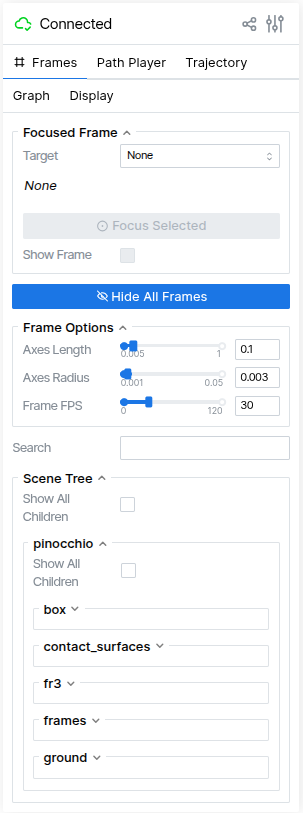
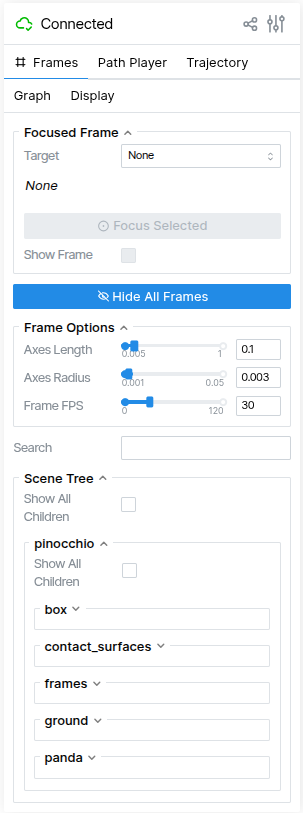
[tutorials] Update viewer instructions and screenshots for the new viser interface

diff --git a/tutorial_2/README.md b/tutorial_2/README.md
@@ -43,7 +43,7 @@ v = Viewer(robot)
 v.initViewer(open=False, loadModel=True)
 v(q)
 ```
-Then in midori address bar, type `http://localhost:8080`. You should see the panda robot.
+Then in midori address bar, type `http://localhost:8000`. You should see the panda robot.
 
 You can have a quick look at the script to see the instructions used to define the robot.
 
@@ -165,9 +165,9 @@ In the upper right corner of the viewer, there is the following window to contro
 
 ![Control of the view](figures/viewer-control.png)
 
-Move the mouse to the icon representing three vertical sliders in the upper right corner, "Configuration and diagnostics" should pop up. Click on the icon and you will see the scene tree. Clicking again brings you back to the initial widget. Select tab "Display" in the upper part of the view controller and select "Show Visuals", "Show Frames" and "Show Contact Surfaces". Many frames are displayed, as well as the contact surfaces defined in the SRDF files.
+Select tab "Display" in the upper part of the view controller and select "Show Contact Surfaces". The contact surfaces defined in the SRDF files are displayed.
 
-Go again to the scene tree. In the tree, expand "pinocchio" then "frames", then "panda". By clicking on the eye in front of each node, you remove the corresponding frame from the view. Remove them all except "panda/gripper" and "box/handle". You now see the gripper and handle frames that will define how the robot grasps the object as in the picture below.
+Select tab "Frames". The "Scene Tree" folder lists the frames of the robot. Frames are hidden by default. In the tree, expand "pinocchio", "frames", "op_frames", then "panda" and check "gripper". Expand "box" next to "panda" and check "handle". You now see the gripper and handle frames that will define how the robot grasps the object as in the picture below. "Hide All Frames" removes all frames from the view.
 
 ![Panda robot and box with gripper and handle](figures/panda-view.png)
 
@@ -228,16 +228,16 @@ In the python terminal, copy paste the following lines
 v.setProblem(problem)
 v.setGraph(graph)
 ```
-In the view controller, click on the button "Show Graph Viewer". The window below should appear.
+In the view controller, select tab "Graph" and click on the button "Show Graph Viewer". The page below should open in a new browser tab.
 ![Graph Viewer](figures/graph-viewer.png)
 
-This window displays the constraint graph.
+This page displays the constraint graph.
 
-If you click on show waypoints, you will see **waypoint states** as on the picture below. Those intermediate states ease manipulation planning by forcing the robot to approach the object from above and lift it above the ground before moving it. The distance of the gripper to the object in **pregrasp** state is the sum of the gripper and handle clearances defined in the SRDF files.
+If you click on "Show waypoints", you will see **waypoint states** as on the picture below. Those intermediate states ease manipulation planning by forcing the robot to approach the object from above and lift it above the ground before moving it. The distance of the gripper to the object in **pregrasp** state is the sum of the gripper and handle clearances defined in the SRDF files.
 
 ![Graph Viewer](figures/graph-viewer-wp.png)
 
-By clicking on a state, you can display the constraints of this state. By right clicking on a state, you can select "Generate random config" and figure out what the additional states are meant for. Note that this operation may fail if the numerical solver does not converge and that it does not care for collisions.
+By clicking on a state, you can display the constraints of this state in the "Element Details" panel. By right clicking on a state, you can select "Generate from random" and figure out what the additional states are meant for. Note that this operation may fail if the numerical solver does not converge and that it does not care for collisions.
 
 ### Back to the manipulation problem
 
@@ -273,7 +273,7 @@ You can display the resulting path in the graphical interface by first loading i
 ```
 v.loadPath(p)
 ```
-and then by clicking on "Play" in the view controller.
+and then by clicking on "Play" in tab "Path Player" of the view controller.
 
 ## optimizing paths
 

diff --git a/tutorial_3/README.md b/tutorial_3/README.md
@@ -229,6 +229,8 @@ v.loadPath(p1)
 v.loadPath(p2)
 v.loadPath(p3)
 ```
+In tab "Path Player" of the view controller, select the path in the "Path" dropdown and click on "Play".
+
 The drilling path is a little bit naive since the tool trajectory is not a straight line but the result of an interpolation in joint space and the velocities of the robot and tool are not controlled.
 
 [Tutorial 4](../tutorial_4/README.md) shows how to better control a tool trajectory.

diff --git a/CHANGELOG.md b/CHANGELOG.md
@@ -6,6 +6,7 @@ The format is based on [Keep a Changelog](https://keepachangelog.com/en/1.0.0/).
 
 ## [Unreleased]
 
+- [tutorials] Update viewer instructions and screenshots for the new viser interface
 - [tutorial_1] Install libboost-test-dev in Dockerfile.
 - [exercise_10] Import SplineGradientBased_bezier3 instead of the removed ManipulationSpline
 - [exercise_10] Expect TOPPRA to keep the path without motion
